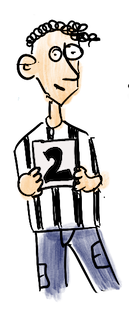
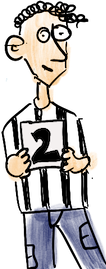
guys and buttons added

diff --git a/main.py b/main.py
@@ -8,39 +8,60 @@ class Timer:
 
 
 class CanvasObject:
-    def __init__(self, canvas, path, x, y, width, height):  # x,y -> center of the image
+    def __init__(self, canvas, path, x, y, width, height, tag):  # x,y -> center of the image
         self.x = int(x)
         self.y = int(y)
         self.width = int(width)
         self.height = int(height)
+        self.tag = tag
         self.image = ImageTk.PhotoImage(Image.open(path).resize((self.width, self.height), Image.ANTIALIAS))
-        self.object = canvas.create_image(self.x, self.y, image=self.image)
+        self.object = canvas.create_image(self.x, self.y, image=self.image, tag=tag)
+        #print(self.object)
+
+    def overlap(self, x, y):
+        if self.x - self.width / 2 <= x <= self.x + self.width / 2 and self.y - self.height / 2 <= y <= self.y + self.height/2:
+            return True
+        return False
 
 
-class MainStage:
+class MetaStage:
+    def __init__(self, window):
+        self.window = window
+        self.bg_canvas = tk.Canvas(window)
+        self.background = CanvasObject(self.bg_canvas, "img/background.jpg", WIDTH / 2, HEIGHT / 2, WIDTH, HEIGHT, 'bcg')
+
+
+class MainStage(MetaStage):
     character_names = ["alien.png", 'blue_coat_guy.png', 'football_shirt.png', 'lady.png', 'tall_man.png']
 
     def __init__(self, window):
-        self.window = window
-
-        self.bg_canvas = tk.Canvas(window)
-
-        self.background = CanvasObject(self.bg_canvas, "img/background.jpg", WIDTH / 2, HEIGHT / 2, WIDTH, HEIGHT)
+        super().__init__(window)
         self.judge = CanvasObject(self.bg_canvas, "img/judge.png", WIDTH / 2, 0.825 * HEIGHT, 0.3 * WIDTH,
-                                  0.35 * HEIGHT)
+                                  0.35 * HEIGHT, "judge")
         self.evidence = CanvasObject(self.bg_canvas, "img/folder.png", 0.226 * WIDTH, 0.718 * HEIGHT, 0.109 * WIDTH,
-                                     0.257 * HEIGHT)
+                                     0.257 * HEIGHT, 'evidence')
         self.decide = CanvasObject(self.bg_canvas, "img/gavel.png", 0.786 * WIDTH, 0.733 * HEIGHT, 0.163 * WIDTH,
-                                   0.244 * HEIGHT)
+                                   0.244 * HEIGHT, 'decide')
         self.lineup = CanvasObject(self.bg_canvas, "img/lineup.png", 0.5 * WIDTH, 0.375 * HEIGHT, 0.6 * WIDTH,
-                                   0.35 * HEIGHT)
+                                   0.35 * HEIGHT, 'lineup')
 
         self.characters = []
         for i in range(len(self.character_names)):
             self.characters.append(CanvasObject(self.bg_canvas, "img/characters/" + self.character_names[i],
-                                                self.lineup.x + (0.3 + 0.2 * i) * self.lineup.width,0, self.lineup.width / 5, self.lineup.height))
+                                                self.lineup.x + (0.2 * i - 0.4) * self.lineup.width,
+                                                self.lineup.y,
+                                                self.lineup.width / 5, self.lineup.height, 'char' + str(i)))
+            self.bg_canvas.tag_bind(self.characters[-1].tag, '<ButtonPress-1>', self.func)
 
         self.bg_canvas.place(relx=0, rely=0, relwidth=1, relheight=1)
+
+    def func(self, event):
+        for char in self.characters:
+            if char.overlap(event.x, event.y):
+                self.bg_canvas.delete(char.object)
+
+
+
 
 
 root = tk.Tk()
